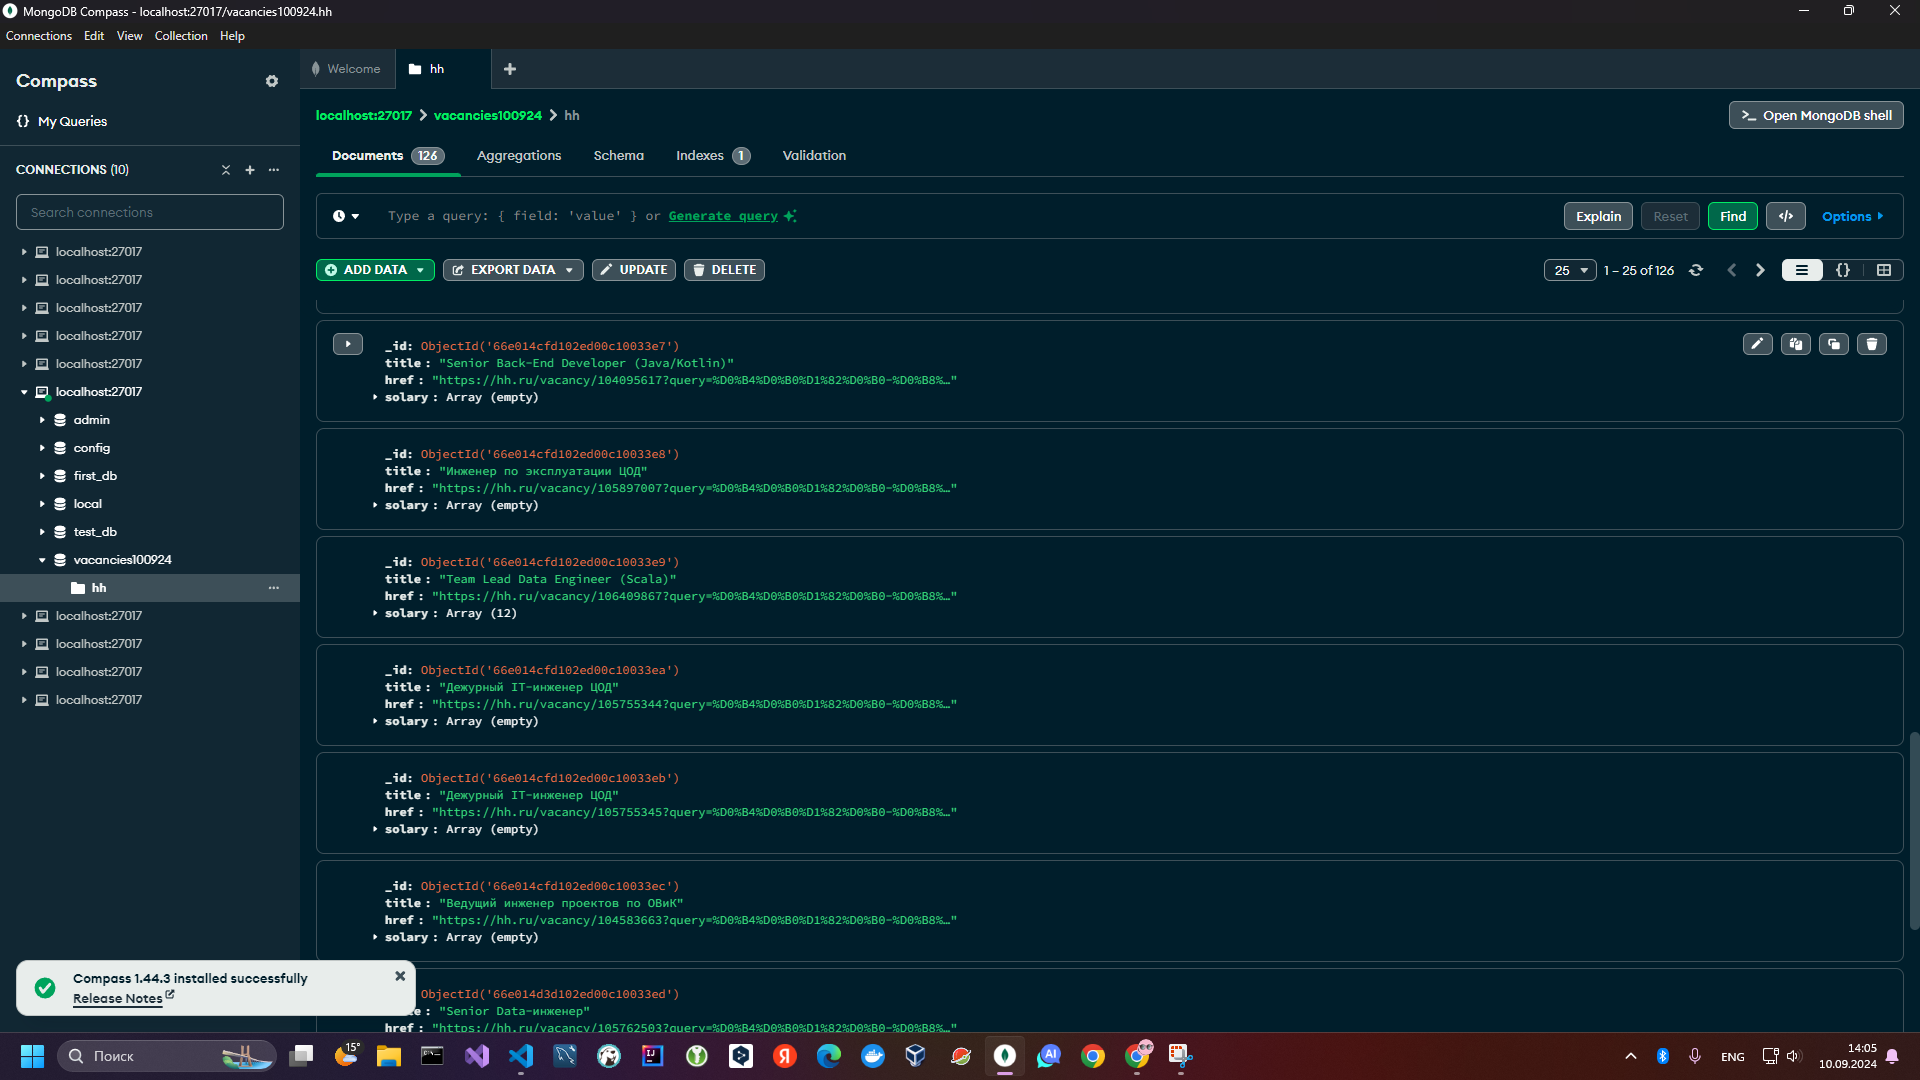
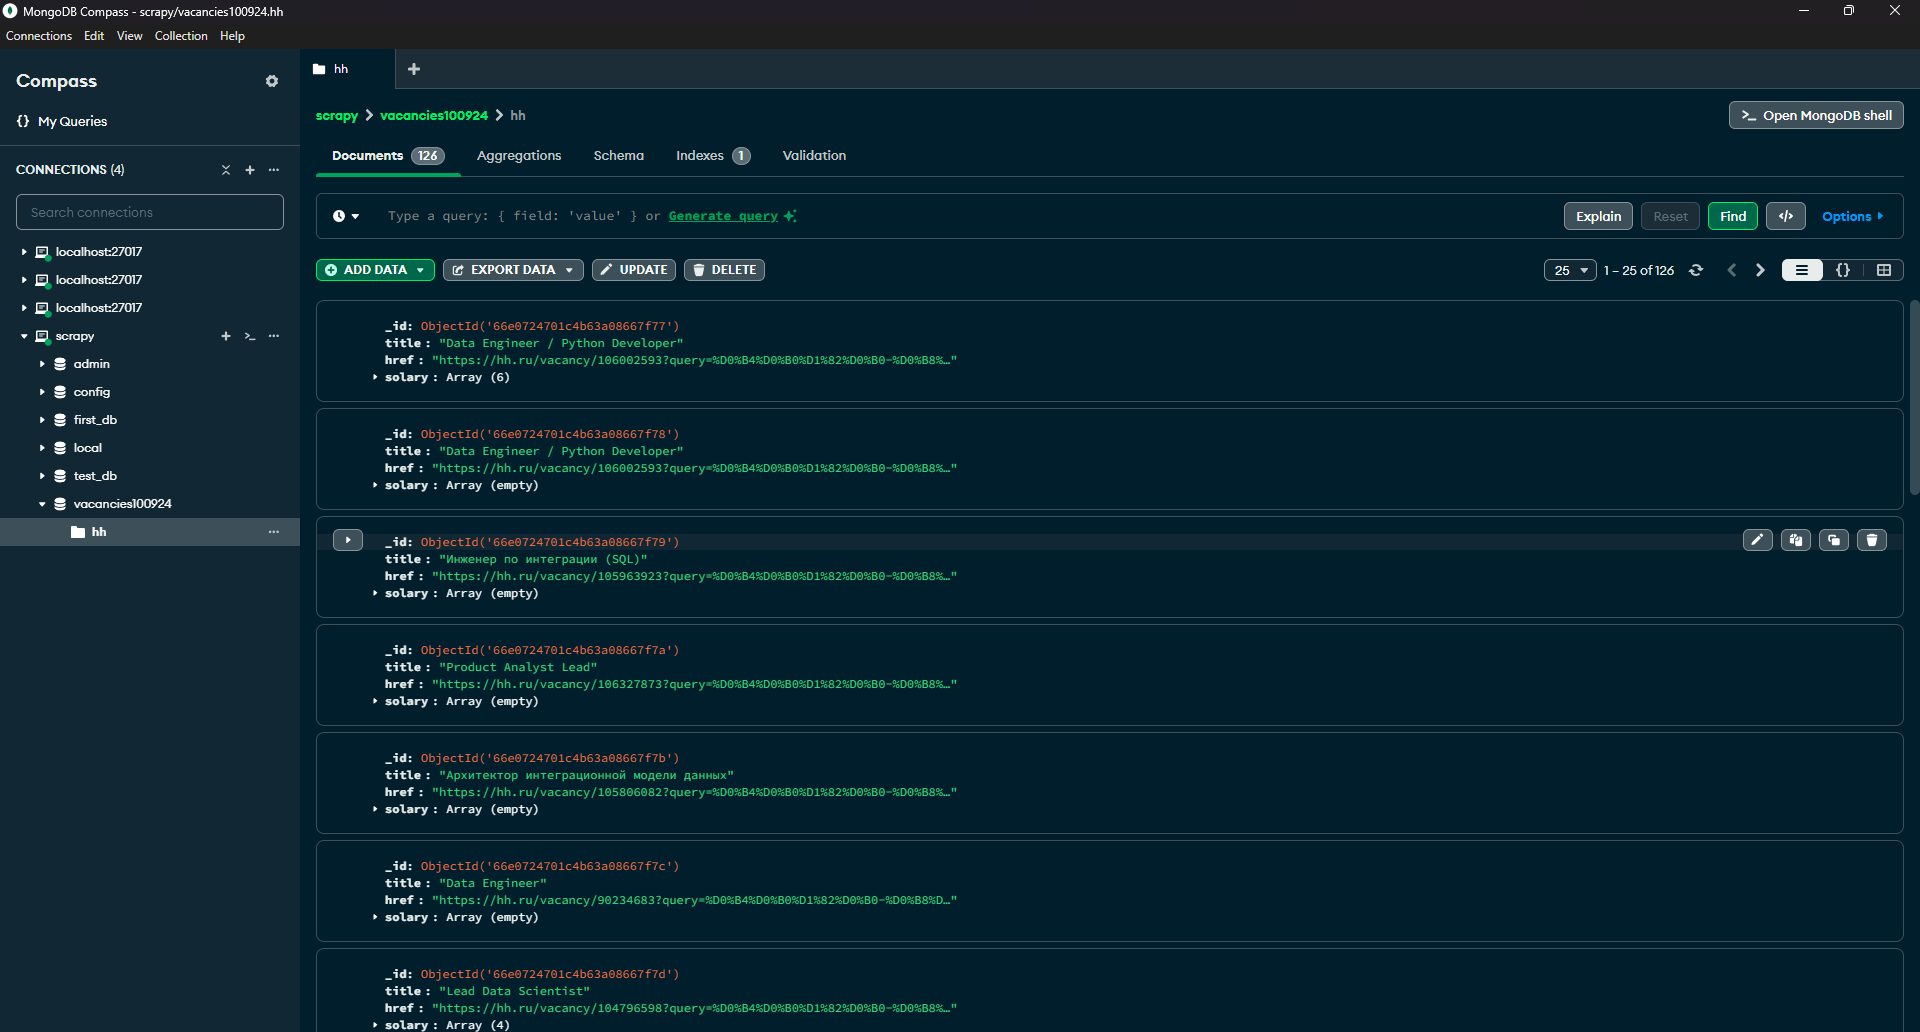
last

Changed region(s): [[0.0, 0.0, 1.0, 1.0]]

diff --git a/hh_scrape/hh_scrape/spiders/hh.py b/hh_scrape/hh_scrape/spiders/hh.py
@@ -1,6 +1,7 @@
 
 import scrapy
 from hh_scrape.items import HhScrapeItem
+from scrapy.http import HtmlResponse
 
 class HhSpider(scrapy.Spider):
     name = "hh"
@@ -8,7 +9,7 @@ class HhSpider(scrapy.Spider):
         'https://hh.ru/search/vacancy?text=%D0%B4%D0%B0%D1%82%D0%B0-%D0%B8%D0%BD%D0%B6%D0%B5%D0%BD%D0%B5%D1%80&salary=&ored_clusters=true&hhtmFrom=vacancy_search_list&hhtmFromLabel=vacancy_search_line&page=0'
     ]
 
-    def parse(self, response):
+    def parse(self, response:HtmlResponse):
         base_url = response.url.split('&page=')[0]
         QUANTITY_PAGES = 6
         
@@ -17,7 +18,7 @@ class HhSpider(scrapy.Spider):
             self.logger.info(f'URL страницы: {url}')
             yield scrapy.Request(url=url, callback=self.parse_page)
 
-    def parse_page(self, response):
+    def parse_page(self, response:HtmlResponse):
         self.logger.info(f'Обрабатываем страницу: {response.url}')
         # Найти все элементы вакансий на странице
         vacancies = response.xpath('//div[contains(@class, "magritte-redesign")]')
@@ -26,7 +27,7 @@ class HhSpider(scrapy.Spider):
             title = vacancy.xpath('.//span[@data-qa="serp-item__title-text"]/text()').get()
             href = vacancy.xpath('.//a[@data-qa="serp-item__title"]/@href').get()
             solary = vacancy.xpath(".//span[@class='magritte-text___pbpft_3-0-14 magritte-text_style-primary___AQ7MW_3-0-14 magritte-text_typography-label-1-regular___pi3R-_3-0-14']//text()").getall()
-            
+            solary = list(dict.fromkeys([s.strip() for s in solary if s.strip()]))  # Удаляем пробелы и дубликаты 
             # Логируем и сохраняем данные
             self.logger.info(f'Заголовок вакансии: {title}')     
             self.logger.info(f'Ссылка вакансии: {href}')     
